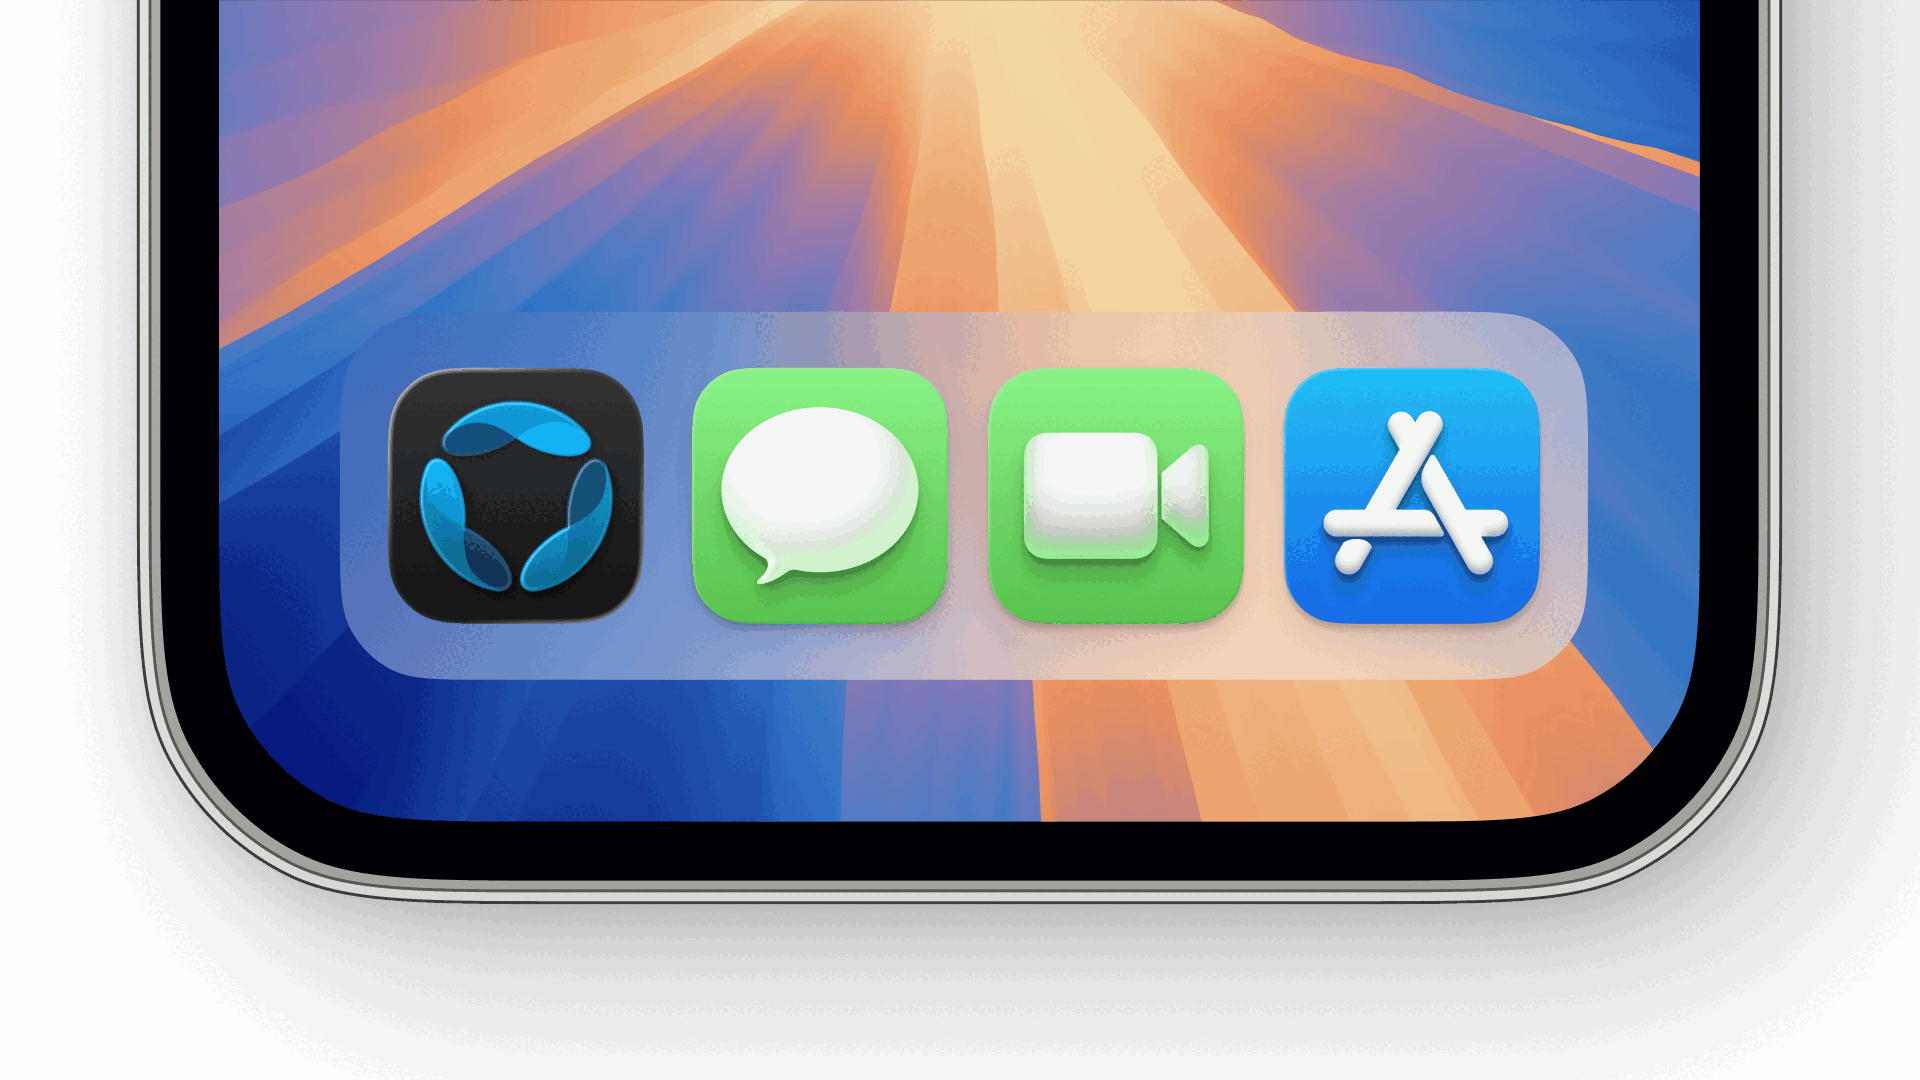
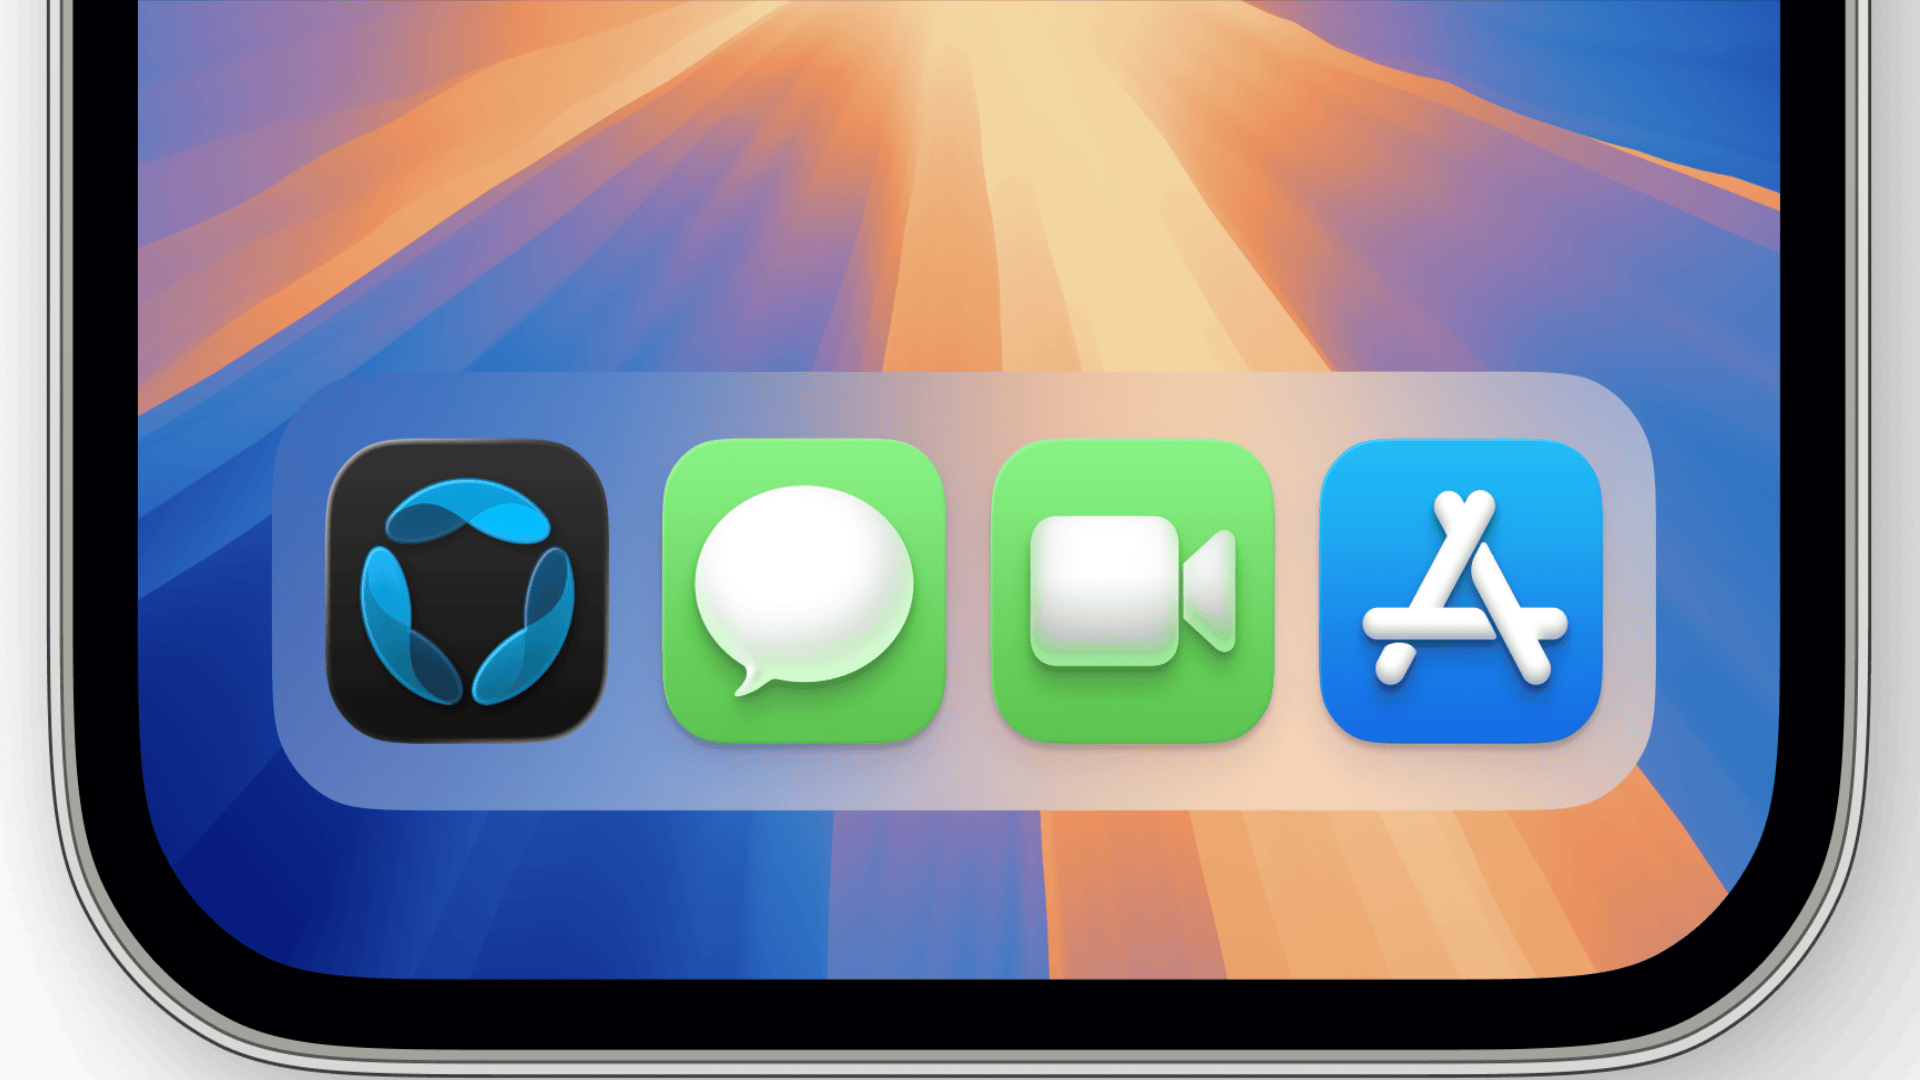
feat: Add mobile app waitlist call-to-action and update app store link presentation across landing and download pages, alongside minor workflow section UI enhancements and updated mobile dock images."

diff --git a/apps/web/src/features/download/components/DownloadPage.tsx b/apps/web/src/features/download/components/DownloadPage.tsx
@@ -13,7 +13,7 @@ import Image from "next/image";
 import Link from "next/link";
 import type { ReactNode } from "react";
 import { useState } from "react";
-import { ChevronDown } from "@/components/shared/icons";
+import { ChevronDown, ChevronRight } from "@/components/shared/icons";
 import ProgressiveImage from "@/components/ui/ProgressiveImage";
 import GetStartedButton from "@/features/landing/components/shared/GetStartedButton";
 import {
@@ -379,39 +379,49 @@ function MobileSection() {
       title="Mobile Apps"
       description="GAIA for iOS and Android is currently in development."
       actions={
-        <div className="flex gap-2">
+        <div className="flex flex-col gap-3">
           <Button
-            variant="flat"
-            isDisabled
-            startContent={
-              <div className="relative h-4 w-4">
-                <Image
-                  src="/images/icons/apple.svg"
-                  alt="iOS"
-                  fill
-                  className="object-contain"
-                />
-              </div>
-            }
+            as={Link}
+            href="https://heygaia.app"
+            target="_blank"
+            rel="noopener noreferrer"
           >
-            App Store
+            Sign up for waitlist <ChevronRight width={17} height={17} />
           </Button>
-          <Button
-            variant="flat"
-            isDisabled
-            startContent={
-              <div className="relative h-4 w-4">
-                <Image
-                  src="/images/icons/google_play.svg"
-                  alt="Android"
-                  fill
-                  className="object-contain"
-                />
-              </div>
-            }
-          >
-            Google Play
-          </Button>
+          <div className="flex flex-wrap gap-2">
+            <Button
+              variant="flat"
+              isDisabled
+              startContent={
+                <div className="relative h-4 w-4">
+                  <Image
+                    src="/images/icons/apple.svg"
+                    alt="iOS"
+                    fill
+                    className="object-contain"
+                  />
+                </div>
+              }
+            >
+              App Store
+            </Button>
+            <Button
+              variant="flat"
+              isDisabled
+              startContent={
+                <div className="relative h-4 w-4">
+                  <Image
+                    src="/images/icons/google_play.svg"
+                    alt="Android"
+                    fill
+                    className="object-contain"
+                  />
+                </div>
+              }
+            >
+              Google Play
+            </Button>
+          </div>
         </div>
       }
     />
@@ -530,7 +540,7 @@ export function LandingDownloadSection() {
               webpSrc="/images/screenshots/phone_dock.webp"
               pngSrc="/images/screenshots/phone_dock.png"
               alt="GAIA Mobile App"
-              className="object-cover object-center scale-115"
+              className="object-cover object-center"
             />
           </div>
           <div className="flex flex-1 flex-col items-center gap-4 p-6 text-center pt-6.5">
@@ -543,41 +553,51 @@ export function LandingDownloadSection() {
             <p className="text-sm text-zinc-400">
               iOS and Android apps in development
             </p>
-            <div className="flex gap-2">
+            <div className="flex flex-col gap-2">
               <Button
-                variant="flat"
-                isDisabled
-                size="sm"
-                startContent={
-                  <div className="relative h-4 w-4">
-                    <Image
-                      src="/images/icons/apple.svg"
-                      alt="iOS"
-                      fill
-                      className="object-contain"
-                    />
-                  </div>
-                }
+                as={Link}
+                href="https://heygaia.app"
+                target="_blank"
+                rel="noopener noreferrer"
               >
-                App Store
+                Sign up for waitlist <ChevronRight width={17} height={17} />
               </Button>
-              <Button
-                variant="flat"
-                isDisabled
-                size="sm"
-                startContent={
-                  <div className="relative h-4 w-4">
-                    <Image
-                      src="/images/icons/google_play.svg"
-                      alt="Android"
-                      fill
-                      className="object-contain"
-                    />
-                  </div>
-                }
-              >
-                Google Play
-              </Button>
+              <div className="flex gap-2">
+                <Button
+                  variant="flat"
+                  isDisabled
+                  size="sm"
+                  startContent={
+                    <div className="relative h-4 w-4">
+                      <Image
+                        src="/images/icons/apple.svg"
+                        alt="iOS"
+                        fill
+                        className="object-contain"
+                      />
+                    </div>
+                  }
+                >
+                  App Store
+                </Button>
+                <Button
+                  variant="flat"
+                  isDisabled
+                  size="sm"
+                  startContent={
+                    <div className="relative h-4 w-4">
+                      <Image
+                        src="/images/icons/google_play.svg"
+                        alt="Android"
+                        fill
+                        className="object-contain"
+                      />
+                    </div>
+                  }
+                >
+                  Google Play
+                </Button>
+              </div>
             </div>
           </div>
         </div>

diff --git a/apps/web/src/features/landing/components/sections/MobileSection.tsx b/apps/web/src/features/landing/components/sections/MobileSection.tsx
@@ -1,6 +1,8 @@
+import { Button } from "@heroui/button";
 import { Call02Icon, ChatBotIcon, VoiceIcon } from "@icons";
 import Image from "next/image";
-import { Button } from "@/components/ui/button";
+import Link from "next/link";
+import { ChevronRight } from "@/components";
 import { SectionHeading } from "@/features/landing/layouts/SectionHeader";
 
 export default function MobileSection() {
@@ -39,53 +41,50 @@ export default function MobileSection() {
             </div>
           </div>
 
-          <div className="relative z-1 flex justify-center gap-2 px-5 sm:justify-start sm:px-0">
+          <div className="relative z-1 flex flex-col gap-3 px-5 sm:px-0">
             <Button
-              className="flex h-[60px] rounded-xl border-2 border-white/30 bg-black text-white"
-              aria-label="Download GAIA from App Store - Coming Soon"
+              as={Link}
+              href="https://heygaia.app"
+              target="_blank"
+              rel="noopener noreferrer"
             >
-              <div className="flex flex-row items-center gap-4">
-                <Image
-                  src="/images/icons/apple.svg"
-                  alt="Apple Icon"
-                  width={30}
-                  height={30}
-                  loading="lazy"
-                />
-
-                <div className="flex flex-col items-start pr-3">
-                  <div className="text-xs font-normal text-white/60 sm:text-sm">
-                    COMING SOON
-                  </div>
-                  <div className="text-md font-medium sm:text-lg">
-                    App Store
-                  </div>
-                </div>
-              </div>
+              Sign up for waitlist <ChevronRight width={17} height={17} />
             </Button>
 
-            <Button
-              className="flex h-[60px] rounded-xl border-2 border-white/30 bg-black text-white"
-              aria-label="Download GAIA from Google Play Store - Coming Soon"
-            >
-              <div className="flex flex-row items-center gap-4">
-                <Image
-                  src="/images/icons/google_play.svg"
-                  alt="Play Store Icon"
-                  width={27}
-                  height={27}
-                  loading="lazy"
-                />
-                <div className="flex flex-col items-start pr-3">
-                  <div className="text-xs font-normal text-white/60 sm:text-sm">
-                    COMING SOON
+            <div className="flex flex-wrap gap-2">
+              <Button
+                variant="flat"
+                isDisabled
+                startContent={
+                  <div className="relative h-4 w-4">
+                    <Image
+                      src="/images/icons/apple.svg"
+                      alt="iOS"
+                      fill
+                      className="object-contain"
+                    />
                   </div>
-                  <div className="text-md font-medium sm:text-lg">
-                    Google Play
+                }
+              >
+                App Store
+              </Button>
+              <Button
+                variant="flat"
+                isDisabled
+                startContent={
+                  <div className="relative h-4 w-4">
+                    <Image
+                      src="/images/icons/google_play.svg"
+                      alt="Android"
+                      fill
+                      className="object-contain"
+                    />
                   </div>
-                </div>
-              </div>
-            </Button>
+                }
+              >
+                Google Play
+              </Button>
+            </div>
           </div>
         </div>
         {/* <Iphone15Pro

diff --git a/apps/web/src/features/landing/components/sections/WorkflowShowcaseSection.tsx b/apps/web/src/features/landing/components/sections/WorkflowShowcaseSection.tsx
@@ -1,5 +1,6 @@
 "use client";
 
+import { ZapIcon } from "@/components";
 import WorkflowDemoAnimation from "../demo/workflow-demo/WorkflowDemoAnimation";
 
 const CONTENT_SECTIONS = [
@@ -27,9 +28,9 @@ const CONTENT_SECTIONS = [
 
 export default function WorkflowShowcaseSection() {
   return (
-    <div className="relative mx-auto mb-8 sm:mb-16 lg:mb-20 flex w-full flex-col justify-center px-6 sm:px-4">
+    <div className="relative mx-auto mb-8 sm:mb-16 lg:mb-20 flex w-full flex-col justify-center px-6 sm:px-6">
       {/* Header */}
-      <div className="mb-2 text-xl font-light text-primary sm:text-2xl text-center lg:text-left">
+      <div className="mb-5 text-xl font-light text-primary sm:text-2xl text-center lg:text-left">
         Kill the Busywork
       </div>
       <div className="mb-8 font-serif text-4xl font-normal sm:text-5xl text-center lg:text-left">
@@ -45,6 +46,9 @@ export default function WorkflowShowcaseSection() {
 
         {/* Right: 30% — Text sidebar */}
         <div className="flex w-full flex-col justify-end gap-7 lg:w-[25%] pb-[52px]">
+          <div className="flex items-center text-4xl font-serif gap-2 text-foreground-400">
+            <ZapIcon width={40} height={40} /> Workflows
+          </div>
           {CONTENT_SECTIONS.map((section) => (
             <div key={section.title}>
               <h3 className="mb-2 text-xl font-medium text-zinc-100">
